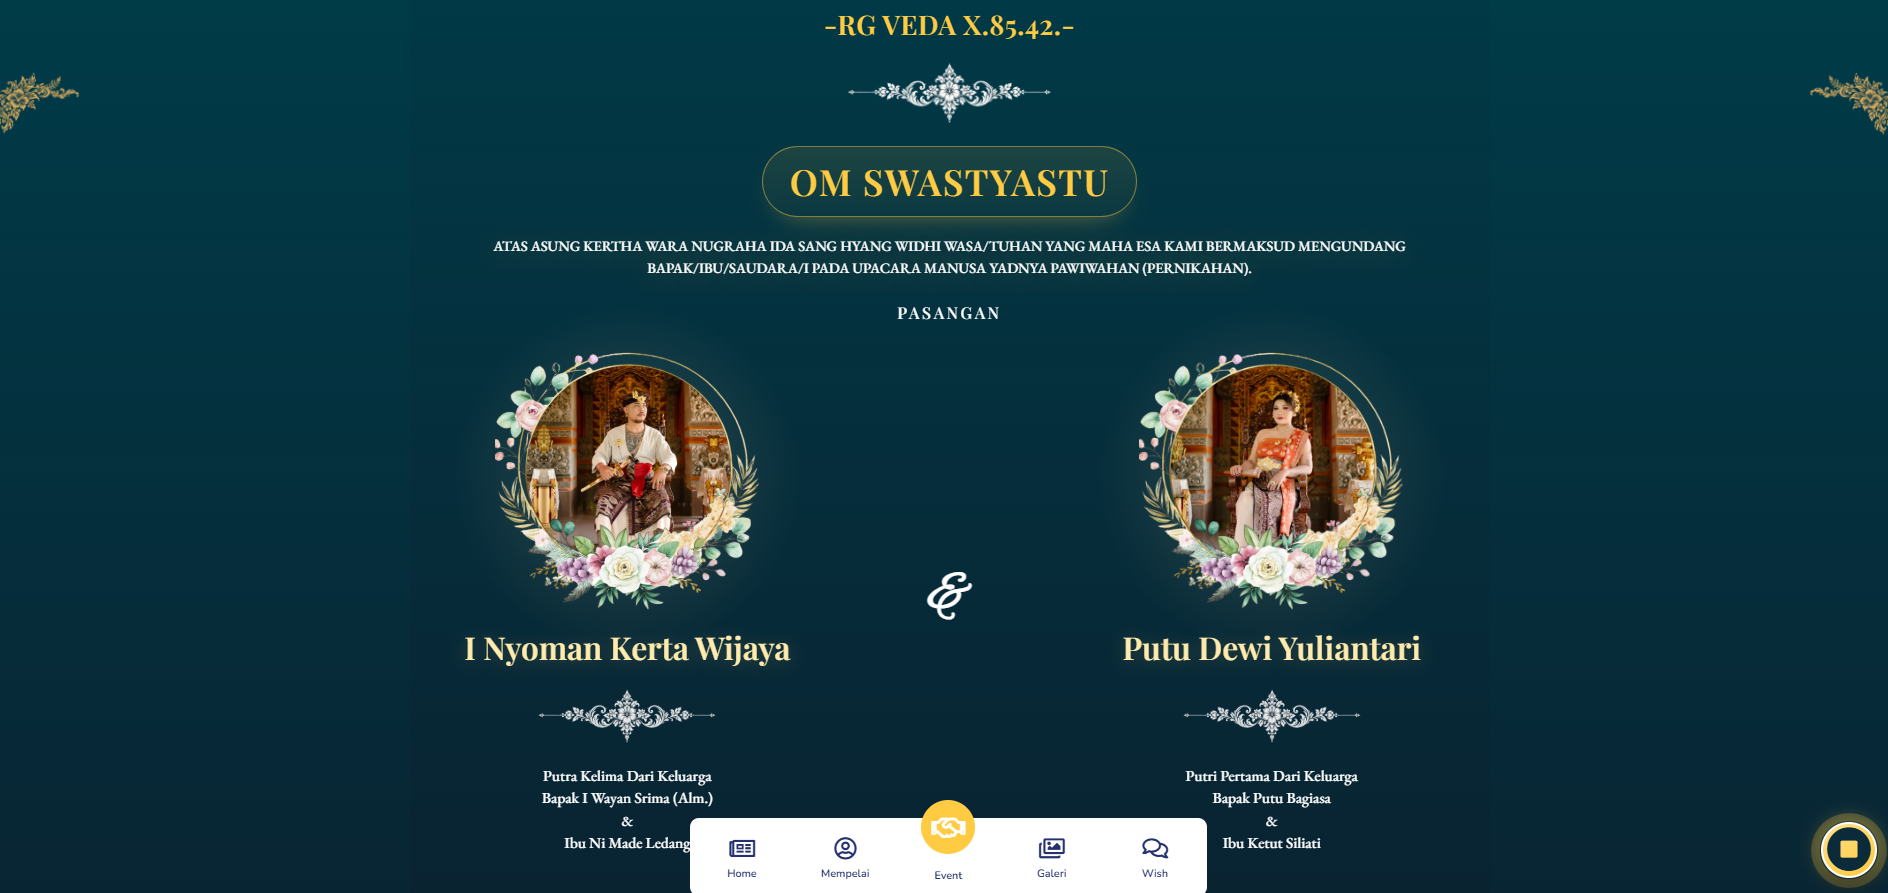
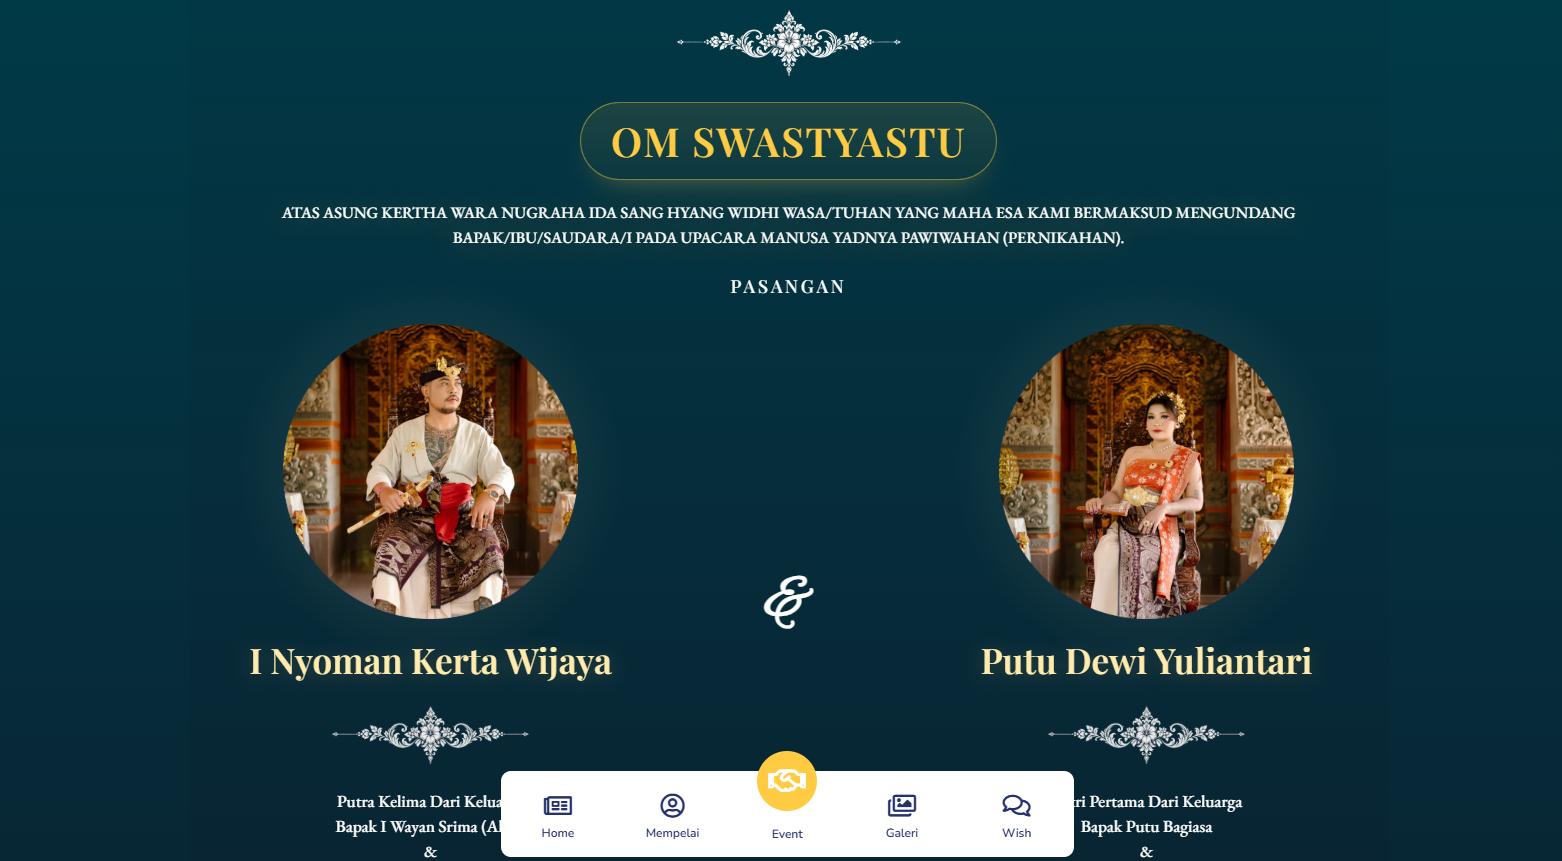
Update project portfolio galleries

diff --git a/src/data/projects.js b/src/data/projects.js
@@ -137,6 +137,7 @@ export const projectsData = [
       '/images/project/ubuddigitalcreative1%20(5).png',
       '/images/project/ubuddigitalcreative1%20(6).png',
       '/images/project/ubuddigitalcreative1%20(7).png',
+      '/images/project/ubuddigitalcreative1%20(8).png',
     ],
     stack: ['Portfolio', 'Photography', 'Visual Storytelling', 'Branding', 'Responsive UI'],
     summaryEn: 'A photography portfolio that gives Ubud Digital Photography a visual home for its image collections, creative work, and contact information.',
@@ -157,6 +158,8 @@ export const projectsData = [
       '/images/project/undangan%20digital%20(1).png',
       '/images/project/undangan%20digital%20(2).png',
       '/images/project/undangan%20digital%20(3).png',
+      '/images/project/undangan%20digital%20(4).png',
+      '/images/project/undangan%20digital%20(5).png',
     ],
     stack: ['Custom Website', 'Digital Invitation', 'Balinese Wedding', 'Responsive UI', 'Mobile-first'],
     summaryEn: 'A shareable digital wedding invitation for Sony and Dewi, bringing event information and wedding visuals together in a mobile-friendly page.',
